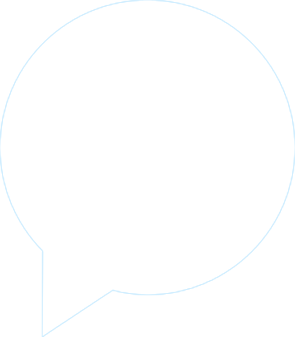
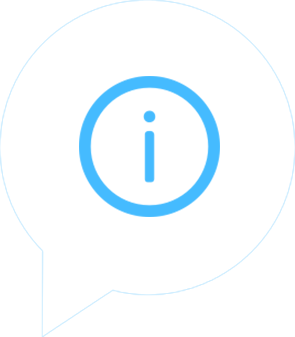
Revamp sessions style, add many speaker to the session

Changed region(s): [[0.2441, 0.2077, 0.7627, 0.6528], [0.4881, 0.3264, 0.5492, 0.5638]]

diff --git a/app/controllers/agenda_tab/child.js b/app/controllers/agenda_tab/child.js
@@ -2,9 +2,33 @@ function closeWindow() {
   $.child.close();
 }
 
-$.speakersModel.fetch({
+$.speakersColection.fetch({
   query: {
-    statement: "SELECT sp.* from speakers as sp JOIN agenda_speakers agsp ON sp.id = agsp.speaker_id WHERE agsp.agenda_id = ? AND agsp.event_id = ? and lang = ? GROUP BY sp.id limit 1",
+    statement: "SELECT sp.* from speakers as sp JOIN agenda_speakers agsp ON sp.id = agsp.speaker_id WHERE agsp.agenda_id = ? AND agsp.event_id = ? and lang = ? GROUP BY sp.id",
     params: [$model.id, Alloy.Globals.lastActiveEvent.id, Ti.Locale.currentLanguage]
+  },
+  success: function(coll) {
+    _.each(coll.models, function(model) {
+      var viewToAdd = Alloy.createController('speakers_tab/image', {
+        data: model.toJSON(),
+        $model: model
+      }).getView();
+
+      viewToAdd.addEventListener('click', function() {
+
+        // Close this modal window
+        $.child.close();
+
+        // Set speakers active tab
+        Alloy.Globals.tabGroup.setActiveTab(Alloy.CFG.tabs.indexOf('speakers'));
+
+        // Open the speaker in speakers tab
+        Alloy.Globals.speakersTab.open(Alloy.createController('speakers_tab/child', {
+          $model: model
+        }).getView());
+      });
+
+      $.gridDeals.addItem(viewToAdd);
+    });
   }
 });

diff --git a/app/lib/mirroring.js b/app/lib/mirroring.js
@@ -77,6 +77,14 @@ var en = {
           left: 136,
           right: 10
         }
+      },
+      child: {
+        bySpeakerNameLabel: {
+          left: 0
+        },
+        nameLabel: {
+          left: 20
+        }
       }
     },
     speakers: {

diff --git a/app/controllers/speakers_tab/index.js b/app/controllers/speakers_tab/index.js
@@ -22,3 +22,9 @@ $.index.addEventListener(loadEvent, function init() {
     }
   });
 });
+
+Alloy.Globals.speakersTab = $.index;
+$.speakersWindow.addEventListener('close', function(){
+  $.destroy();
+  Alloy.Globals.speakersTab = null;
+});

diff --git a/app/controllers/speakers_tab/image.js b/app/controllers/speakers_tab/image.js
@@ -1,0 +1,5 @@
+var args = arguments[0] || {};
+
+$.mainImageView.image = args.data.featured_image;
+$.nameLabel.text = args.data.name;
+$.titleLabel.text = args.data.title;

diff --git a/app/controllers/speakers_tab/child.js b/app/controllers/speakers_tab/child.js
@@ -1,3 +1,5 @@
+$.speakerModel.set($model.toJSON());
+
 function shareButtonClicked() {
 
   // share text status
